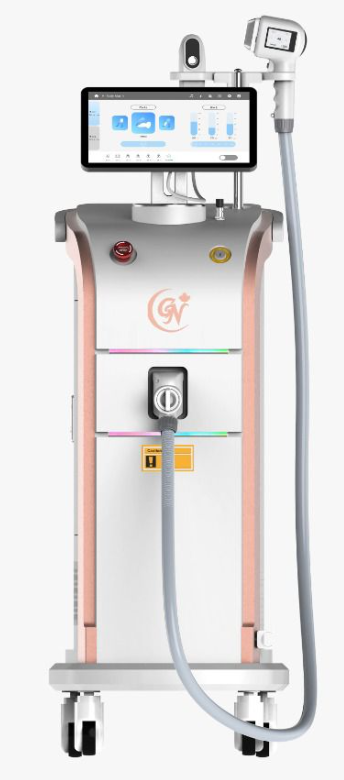
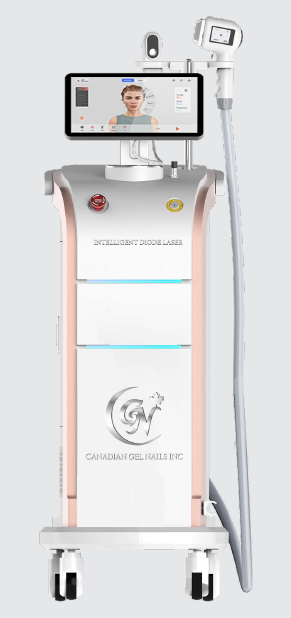
feat/fix(reset pass/laser img): added reset password UI and updated laser img
- added forgot password link in login page
- added UI for reset password page
- added dummy service call for reset password
- changed laser machine image in about us section

diff --git a/src/utils/hooks/useResetPassword.ts b/src/utils/hooks/useResetPassword.ts
@@ -1,0 +1,91 @@
+import { useState } from 'react';
+import { resetPassword } from '../../services/auth';
+import { ResetPasswordParams } from '../../interfaces/Password';
+
+export const useResetPassword = () => {
+  const [email, setEmail] = useState<string>('');
+  const [emailErr, setEmailErr] = useState<string>('');
+  const [password, setPassword] = useState<string>('');
+  const [passwordErr, setPasswordErr] = useState<string>('');
+  const [confPassword, setConfPassword] = useState<string>('');
+  const [confPasswordErr, setConfPasswordErr] = useState<string>('');
+  const [submitError, setSubmitError] = useState<string>('');
+  const [success, setSuccess] = useState<string>('');
+
+  const handleEmailChange = (e: React.ChangeEvent<HTMLInputElement>) => {
+    const value = e.target.value;
+    setEmail(value);
+    if (!/\S+@\S+\.\S+/.test(value)) {
+      setEmailErr('Invalid email address');
+    } else {
+      setEmailErr('');
+    }
+  };
+
+  const handlePasswordChange = (e: React.ChangeEvent<HTMLInputElement>) => {
+    const value = e.target.value;
+    setPassword(value);
+    if (value.length < 6) {
+      setPasswordErr('Password must be at least 6 characters');
+    } else {
+      setPasswordErr('');
+    }
+    if (confPassword && value !== confPassword) {
+      setConfPasswordErr('Passwords do not match');
+    } else {
+      setConfPasswordErr('');
+    }
+  };
+
+  const handleConfPassword = (e: React.ChangeEvent<HTMLInputElement>) => {
+    const value = e.target.value;
+    setConfPassword(value);
+    if (password !== value) {
+      setConfPasswordErr('Passwords do not match');
+    } else {
+      setConfPasswordErr('');
+    }
+  };
+
+  // Returns true if any field is empty or has errors
+  const checkValues = () => {
+    return (
+      !email ||
+      !!emailErr ||
+      !password ||
+      !!passwordErr ||
+      !confPassword ||
+      !!confPasswordErr
+    );
+  };
+
+  const handleResetPassword = async () => {
+    if (checkValues()) {
+      setSubmitError('Please fix the errors before submitting.');
+      return;
+    }
+    setSubmitError('');
+    try {
+      const data = await resetPassword({ email, password } as ResetPasswordParams);
+      setSuccess('Password reset successfully.');
+    } catch (error: any) {
+      setSubmitError(error.response?.data?.message || 'Failed to reset password.');
+    }
+  };
+
+  return {
+    email,
+    emailErr,
+    handleEmailChange,
+    password,
+    passwordErr,
+    handlePasswordChange,
+    confPassword,
+    confPasswordErr,
+    handleConfPassword,
+    checkValues,
+    handleResetPassword,
+    submitError,
+    success,
+  };
+};

diff --git a/src/pages/auth/ResetPasswordPage.tsx b/src/pages/auth/ResetPasswordPage.tsx
@@ -1,0 +1,72 @@
+import React from 'react';
+
+import FormCard from "../../ui/molecules/FormCard/FormCard";
+import EmailInput from "../../ui/atoms/formElements/auth/EmailInput/EmailInput";
+import PasswordInput from "../../ui/atoms/formElements/auth/PasswordInput/PasswordInput";
+import AuthSubmitButton from "../../ui/atoms/buttons/ActionButton/AuthSubmitButton";
+
+import { useResetPassword } from '../../utils/hooks/useResetPassword';
+
+interface ResetPasswordPageProps {}
+
+const ResetPasswordPage: React.FC<ResetPasswordPageProps> = () => {
+  const {
+    email,
+    emailErr,
+    handleEmailChange,
+    password,
+    passwordErr,
+    handlePasswordChange,
+    confPassword,
+    confPasswordErr,
+    handleConfPassword,
+    checkValues,
+    handleResetPassword,
+    submitError,
+    success,
+  } = useResetPassword();
+
+  return (
+    <div className="h-screen flex flex-col items-center justify-center">
+      <FormCard>
+        <div id="form-title-wrapper" className="flex flex-col items-center justify-center my-4">
+          <h1 className="text-lg font-medium tablet:text-xl desktop:text-2xl">Reset Password</h1>
+          {/* Uncomment below if needed
+          <p className="text-xxs tablet:text-xs desktop:text-sm">
+            Don't have an account?
+            <a href="/auth/sign-up" className="underline ml-1">Sign Up</a>
+          </p>
+          */}
+        </div>
+        <div id="input-container" className="my-3 w-full">
+          <EmailInput 
+            value={email}
+            error={emailErr}
+            onChange={handleEmailChange}
+          />
+          <PasswordInput
+            label="Password"
+            value={password}
+            errors={passwordErr ? [passwordErr] : []}
+            onChange={handlePasswordChange}
+          />
+          <PasswordInput
+            label="Confirm Password"
+            value={confPassword}
+            errors={confPasswordErr ? [confPasswordErr] : []}
+            onChange={handleConfPassword}
+          />
+        </div>
+        <AuthSubmitButton 
+          disabled={checkValues()}
+          error={submitError}
+          label="Reset Password"
+          callbackFunc={handleResetPassword}
+        />
+        {success && <p className="text-green font-medium">{success}</p>}
+      </FormCard>
+    </div>
+  );
+};
+
+export default ResetPasswordPage;

diff --git a/src/pages/auth/SignInPage.tsx b/src/pages/auth/SignInPage.tsx
@@ -12,6 +12,7 @@ import GoogleAuthButton from "../../ui/atoms/buttons/GoogleAuthButton/GoogleAuth
 // hooks imports
 import { useSignInPage } from "../../utils/hooks/useSignInPage";
 import { AccTypeContext } from "../../utils/hooks/useAccTypeContext";
+import { resetPasswordEmail } from "../../services/auth";
 
 interface SignInPageProps{}
 
@@ -72,6 +73,13 @@ const SignInPage: React.FC<SignInPageProps> = ()=>{
                     or continue with 
                 </p>
                 <GoogleAuthButton/>
+                <p
+                className="text-xxs tablet:text-xs desktop:text-sm">
+                    Forgot password?
+                    <a href="/auth/forgotpassword"
+                    onClick={resetPasswordEmail}
+                    className="underline ml-1">Reset here</a>
+                </p>
             </FormCard>
         </div>
     )

diff --git a/src/services/auth.ts b/src/services/auth.ts
@@ -1,7 +1,24 @@
 import axios from "../helpers/axios"
 
-import { GET_AUTH_ENDPOINT } from "../constants/routes"
+import { GET_AUTH_ENDPOINT, RESET_PASSWORD_ENDPOINT } from "../constants/routes"
+
+import { ResetPasswordParams } from "../interfaces/Password"
 
 export const getAuth = async() => {
     return axios.get(GET_AUTH_ENDPOINT)
+}
+  
+export const resetPassword = async ({ email, password }: ResetPasswordParams) => {
+    try {
+      const response = await axios.post(RESET_PASSWORD_ENDPOINT, { email, password });
+      return response.data;
+    } catch (error) {
+      console.error("Error resetting password:", error);
+      throw error;
+    }
+  };
+
+
+export const resetPasswordEmail = ()=>{
+    console.log('reset password email sent')
 }

diff --git a/src/routes/router.tsx b/src/routes/router.tsx
@@ -22,6 +22,7 @@ import AdminSignInPage from "../pages/auth/AdminSignInPage";
 import { getAuth } from "../services/auth";
 import SalonsPage from "../pages/SalonsPage";
 import ProductInfoPage from "../pages/ProductInfoPage";
+import ResetPasswordPage from "../pages/auth/ResetPasswordPage";
 
 const authLoader = async () => {
     console.log('auth redirect');
@@ -99,6 +100,10 @@ const router = createBrowserRouter([
             {
                 path: 'admin',
                 element: <AdminSignInPage />
+            },
+            {
+                path: 'forgotpassword',
+                element: <ResetPasswordPage />
             }
         ]
     },

diff --git a/src/constants/routes.ts b/src/constants/routes.ts
@@ -38,6 +38,7 @@ export const GET_ORDER = '/order/'
 export const LANDING_PAGE = '/landingpage'
 export const FEEDBACK_ENDPOINT = '/sendfeeback'
 export const EDIT_PRODUCT_ENDPOINT = '/updateproduct'
+export const RESET_PASSWORD_ENDPOINT = '/resetpassword'
 
 export const POS_WEBSITE_URL = 'https://main.d29iicb8es15um.amplifyapp.com/'
 export const base_url = 'https://posapi.canadiangelnails.com/'

diff --git a/src/interfaces/Password.ts b/src/interfaces/Password.ts
@@ -1,0 +1,4 @@
+export interface ResetPasswordParams {
+    email: string;
+    password: string;
+}
